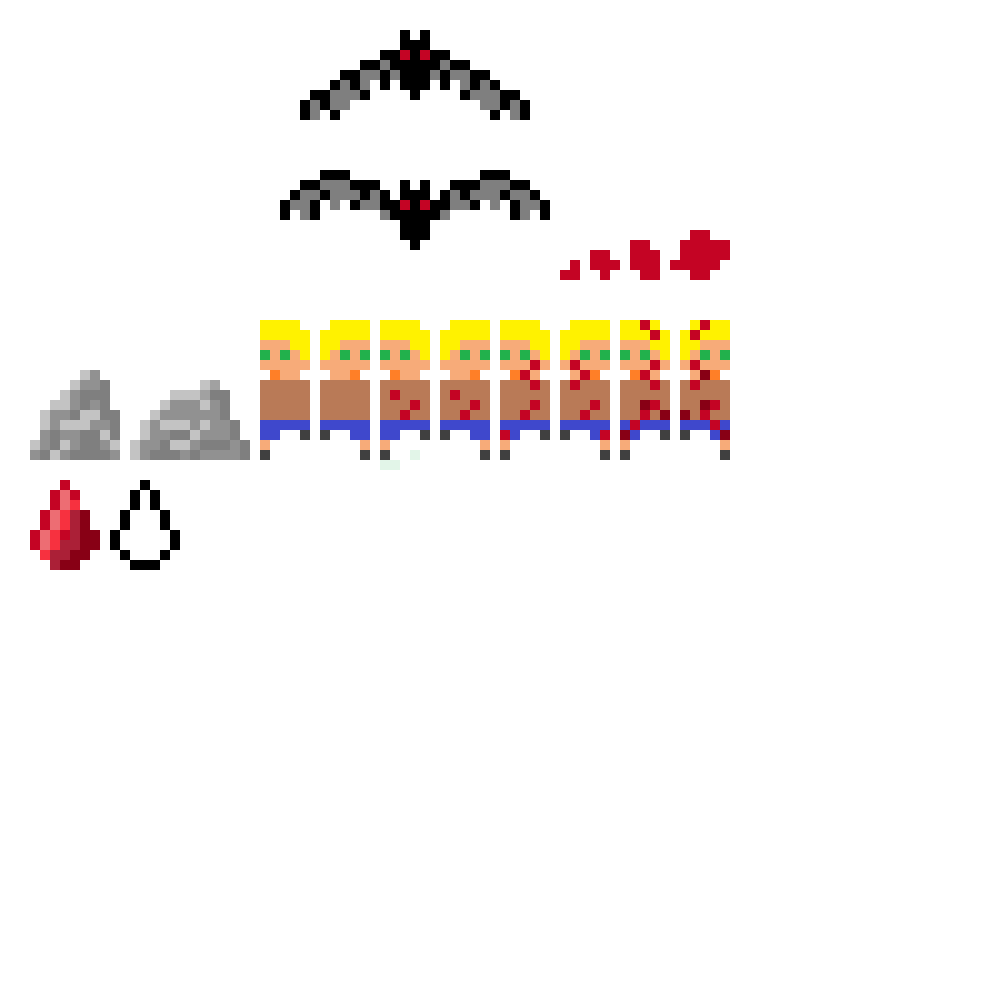
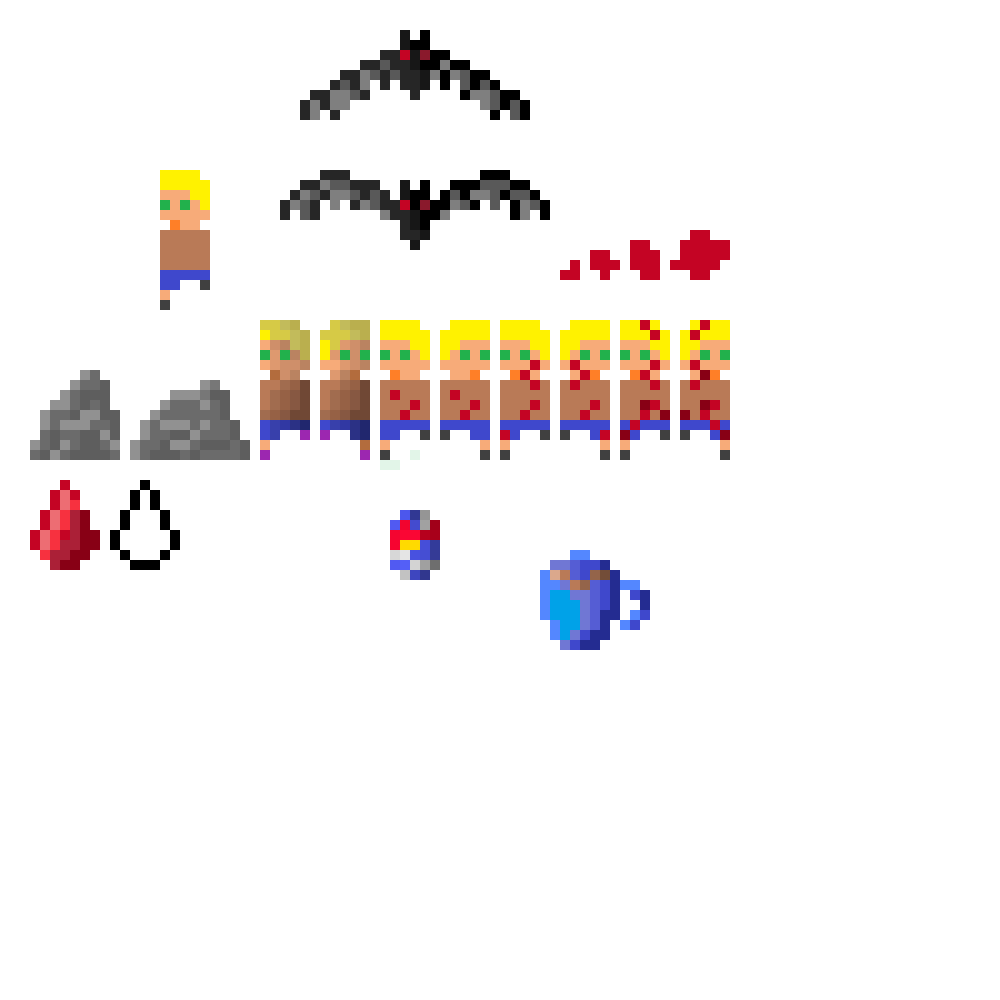
all

diff --git a/scripts.js b/scripts.js
@@ -7,6 +7,7 @@ let canvas = document.getElementById('canvas')
 
 import {c, ctx} from "./modules/canvas.js";
 import {Background} from "./modules/background.js";
+import {Energy} from "./modules/energy.js";
 import {Blood} from "./modules/blood.js";
 import {Rock} from "./modules/rock.js";
 import {Player} from "./modules/player.js";
@@ -18,13 +19,16 @@ import {Vampire} from "./modules/vampire.js";
 
 let gameFrame = 1
 var gameSpeed = 10
+var baseSpeed = 10
 let player = new Player
 let vampire = new Vampire
 let background = new Background(0)
 let background1 = new Background(1000)
 var bloodArray = []
 var rockArray = []
-
+var energyArray = []
+var effectCouter = 0
+var playerPreviousPos = []
 
 // handle
 var randomBloodSpawn = Math.ceil(Math.random()*100/4)
@@ -60,6 +64,22 @@ function handleRock(){
     }
 }
 
+var randomEnergySpawn = Math.ceil(Math.random()*100)*6
+
+function handleEnergy(){
+    if (gameFrame % randomEnergySpawn == 0){
+        randomEnergySpawn = Math.ceil(Math.random()*100)*6
+        energyArray.push(new Energy()) 
+    }
+    for (let i = 0; i<energyArray.length; i++){
+        energyArray[i].draw(gameSpeed)
+        if (energyArray[i].y <= -50){
+            energyArray.splice(i,1)
+            i --
+        }
+    }
+}
+
 function handleBackground(){
     background.draw(gameSpeed)
     background1.draw(gameSpeed)
@@ -68,12 +88,54 @@ function handleBackground(){
 function handlePlayer(){
     player.update()
     player.draw()
+    var rockCollision = false 
+    for (let i = 0; i<rockArray.length; i++){
+        if (player.x > rockArray[i].x + rockArray[i].frameW ||
+            player.x + player.width < rockArray[i].x ||
+            player.y > rockArray[i].y + rockArray[i].frameH ||
+            player.y + player.height < rockArray[i].y){
+        }else {
+            rockCollision = true
+        }
+    }
+    if (rockCollision){
+        gameSpeed =3
+    }
+    
+    var energyCollision = false
+
+    if (effectCouter != 0){
+        effectCouter ++
+        if (effectCouter <=20){
+            energyCollision = true
+        }else{
+            effectCouter =0
+        }
+    }
+
+    for (let i = 0; i<energyArray.length; i++){
+        if (player.x > energyArray[i].x + energyArray[i].frameW ||
+            player.x + player.width < energyArray[i].x ||
+            player.y > energyArray[i].y + energyArray[i].frameH ||
+            player.y + player.height < energyArray[i].y){
+        }else {
+            energyCollision = true
+            energyArray.splice(i--,1)
+            effectCouter ++
+        }
+    }
+    if (energyCollision){
+        gameSpeed =15
+    }
+
+    if (!energyCollision && !rockCollision){
+        gameSpeed = baseSpeed
+    }
 }
 
 function handleVampire(){
-    vampire.update(player.x)
+    vampire.update(player.x,gameSpeed)
     vampire.draw()
-    console.log(vampire.x,vampire.y)
 }
 //animation loop
 
@@ -84,8 +146,9 @@ let gameloop = setInterval(function(){
     // handle and draw all elements
     handleBackground()
     handleBlood()
-    handlePlayer()
     handleRock()
+    handleEnergy()
+    handlePlayer()
     handleVampire()
     // add gameframe
     gameFrame ++

diff --git a/modules/energy.js b/modules/energy.js
@@ -1,0 +1,26 @@
+import {c, ctx} from "./canvas.js";
+
+//Environment.js
+class Energy {
+    constructor(){
+        this.x = Math.random()*1000
+        if (this.x <= 50){
+            this.x += 50
+        }
+        if (this.x >= 450){
+            this.x -= 50
+        }
+        this.y = 1000;
+        this.spriteSheet = new Image()
+        this.spriteSheet.src = "pixil-frame-0.png"
+        this.frameX = 390
+        this.frameY = 510
+        this.frameW = 50
+        this.frameH = 70
+    }
+    draw(speed){
+        this.y -= speed
+        c.getContext('2d').drawImage(this.spriteSheet,this.frameX,this.frameY,this.frameW,this.frameH,this.x, this.y, this.frameW,this.frameH);
+    }
+}
+export {Energy};

diff --git a/modules/vampire.js b/modules/vampire.js
@@ -17,8 +17,9 @@ class Vampire {
         this.frameY = 170
         this.animationSpeed = 10
     }
-    update(x){
+    update(x,speed){
         this.x = x
+        this.y += Math.ceil((10 - speed)/1.5)
     }
 
     draw(){
@@ -37,7 +38,7 @@ class Vampire {
             }
             this.count = 0
         }
-        c.getContext('2d').drawImage(this.spriteSheet,this.frameX,this.frameY,this.width,this.height,this.x-this.width/2.5, this.y, this.width,this.height);
+        c.getContext('2d').drawImage(this.spriteSheet,this.frameX,this.frameY,this.width,this.height,this.x-this.width/2.3, this.y, this.width,this.height);
 
         this.count ++
     }

diff --git a/modules/player.js b/modules/player.js
@@ -57,6 +57,8 @@ class Player {
         if (this.x + this.dx <= 950 - this.width/2 && this.x + this.dx >= 50 ){
             this.x = this.x + this.dx
         }
+
+        
     }
 
     draw(){

diff --git a/styles.css b/styles.css
@@ -2,6 +2,7 @@ canvas{
     border:1px solid black;
     width:800px;
     height:800px;
+    background-color: rgb(43, 65, 38);
 }
 
 body {
